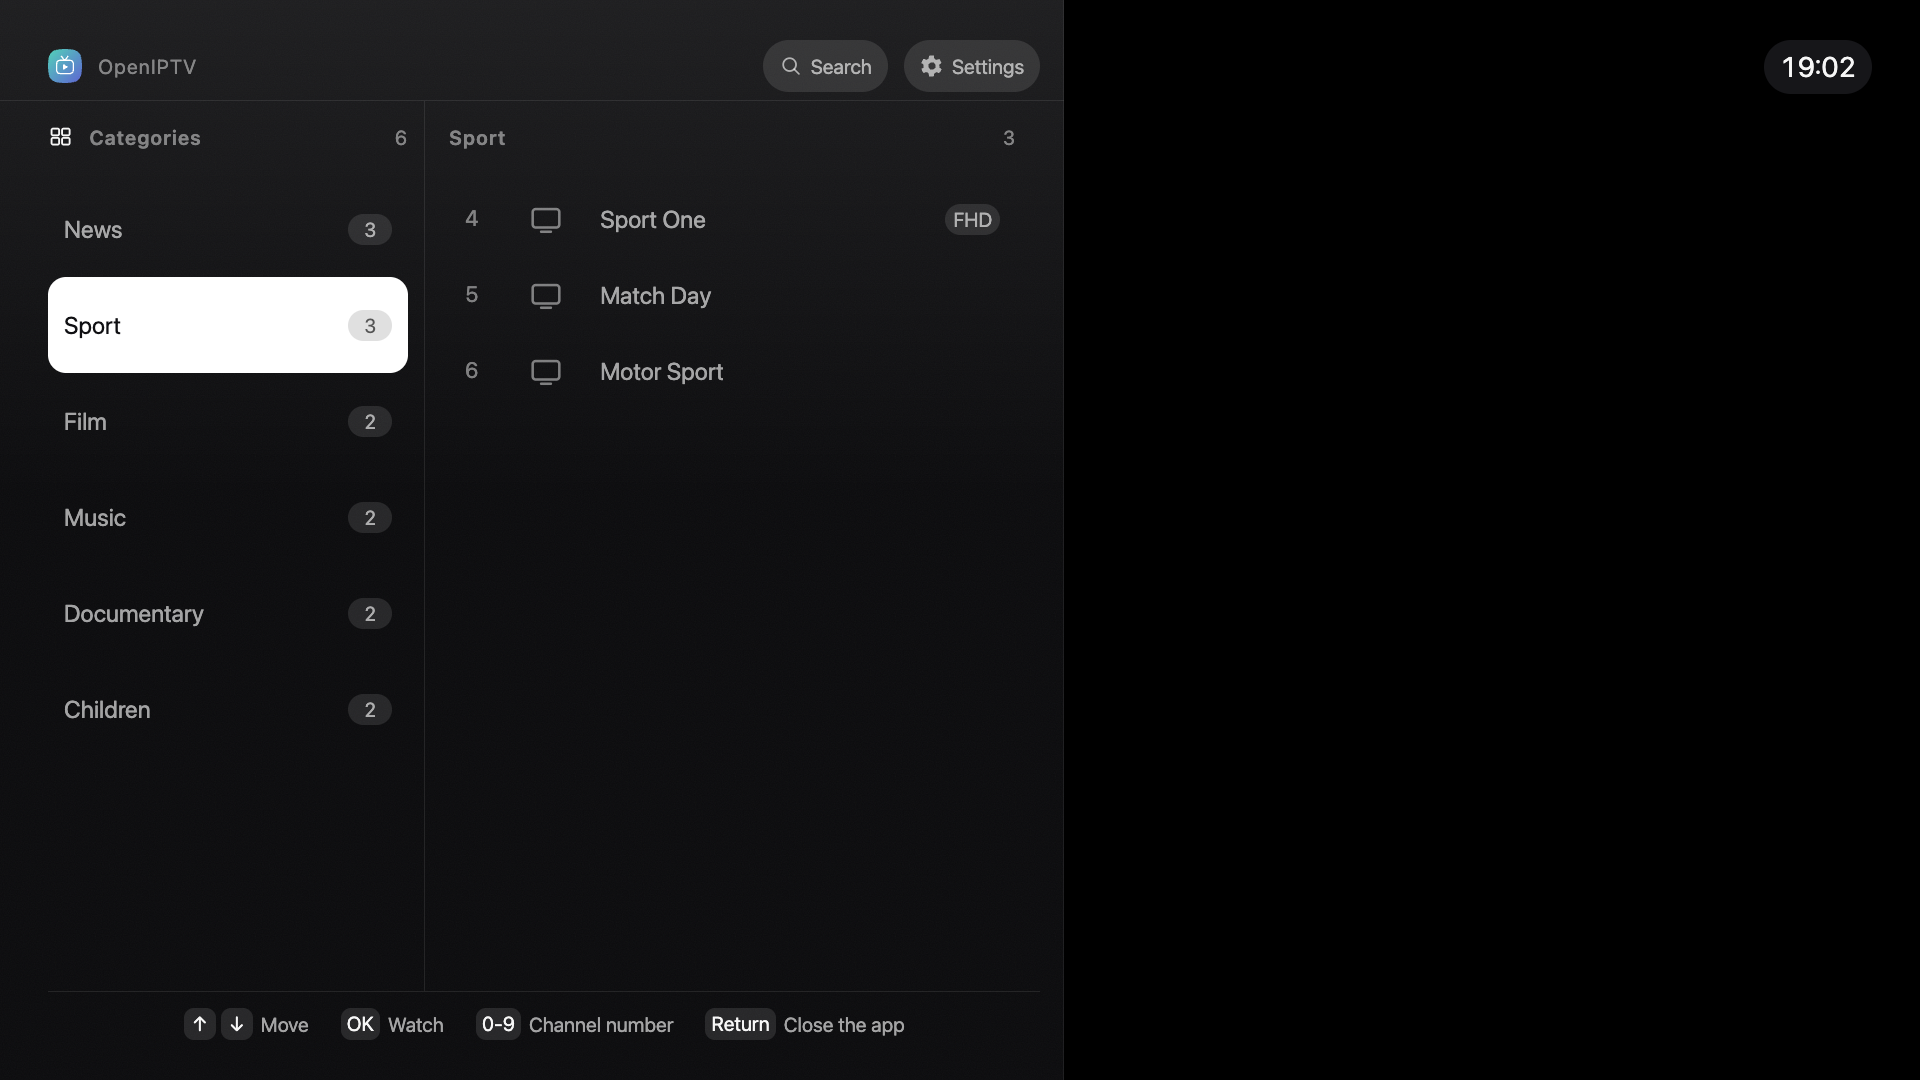
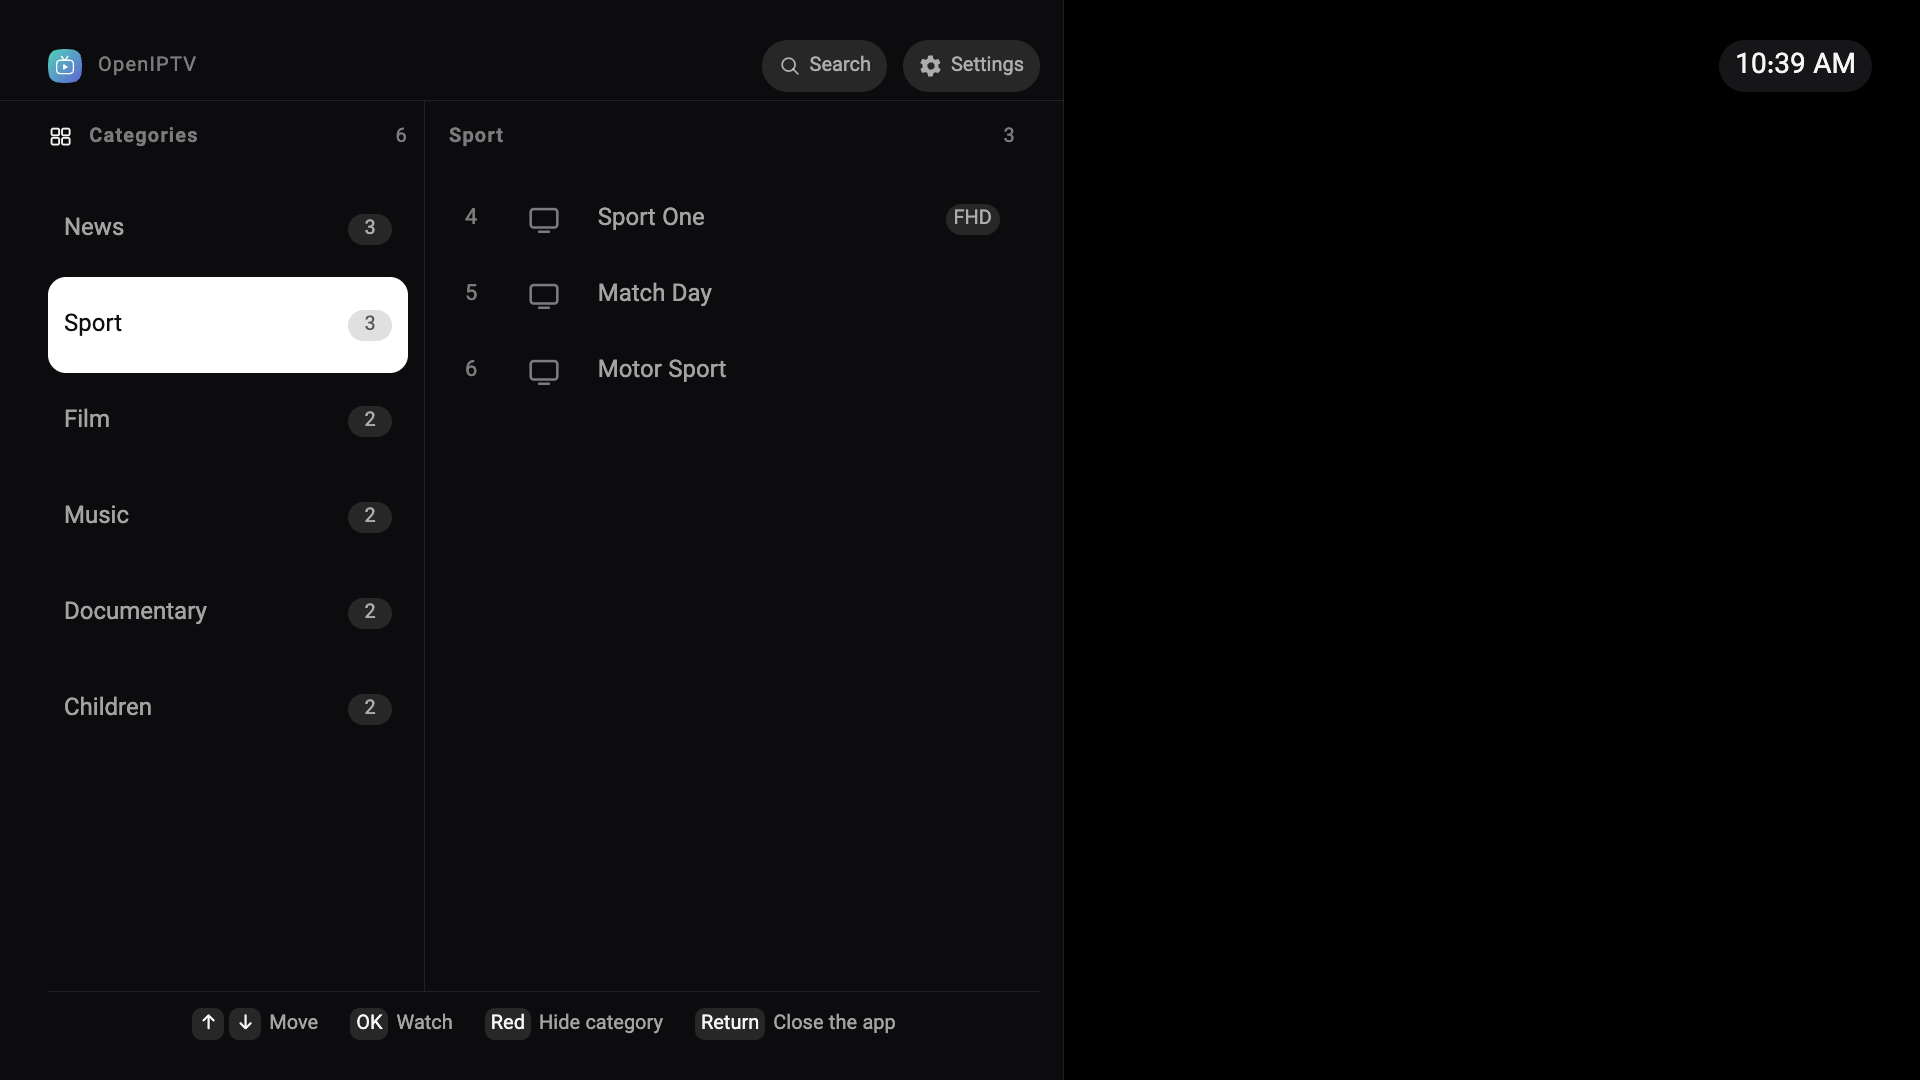
docs: refresh README and product screenshots

diff --git a/README.md b/README.md
@@ -12,12 +12,23 @@ The [demo playlist](https://shayanline.github.io/OpenIPTV/demo/nasa.m3u) contain
 
 ## A look at it
 
-|  |  |  |
-|:--|:--|:--|
-| [<img src="docs/screenshots/01-first-run.png" alt="The first run screen, asking for the address of an M3U playlist">](docs/screenshots/01-first-run.png) | [<img src="docs/screenshots/02-channels.png" alt="The channel list, with categories down the left and channels beside them">](docs/screenshots/02-channels.png) | [<img src="docs/screenshots/03-categories.png" alt="The category rail, with Sport highlighted and its channels listed">](docs/screenshots/03-categories.png) |
-| **Add** | **Watch** | **Browse** |
-| [<img src="docs/screenshots/04-search.png" alt="Search, with the query news typed and two matching channels shown">](docs/screenshots/04-search.png) | [<img src="docs/screenshots/05-favourites.png" alt="A channel starred as a favourite, with a Favourites category appearing at the top of the rail">](docs/screenshots/05-favourites.png) | [<img src="docs/screenshots/06-settings.png" alt="The Watching section of Settings, showing picture size, resume, the channel fix and the list timeout">](docs/screenshots/06-settings.png) |
-| **Search** | **Favourite** | **Adjust** |
+|  |  |
+|:--|:--|
+| [<img src="docs/screenshots/01-first-run.png" alt="The first run screen with playlist address, optional name and language controls">](docs/screenshots/01-first-run.png) | [<img src="docs/screenshots/02-channels.png" alt="The channel panel with categories, channel rows and remote key guides">](docs/screenshots/02-channels.png) |
+| **Add a playlist** | **Watch channels** |
+| [<img src="docs/screenshots/03-categories.png" alt="The category rail with Sport highlighted and its channels listed">](docs/screenshots/03-categories.png) | [<img src="docs/screenshots/04-search.png" alt="Search with the query news and matching channels">](docs/screenshots/04-search.png) |
+| **Browse categories** | **Search everything** |
+| [<img src="docs/screenshots/05-favourites.png" alt="A favourite channel and the generated Favourites category">](docs/screenshots/05-favourites.png) | [<img src="docs/screenshots/06-settings.png" alt="Playback Settings with screen fit, resume, compatibility and Playback information controls">](docs/screenshots/06-settings.png) |
+| **Keep favourites** | **Adjust playback** |
+| [<img src="docs/screenshots/07-category-management.png" alt="Category management with visibility controls for one playlist">](docs/screenshots/07-category-management.png) | [<img src="docs/screenshots/08-playback-information.png" alt="Playback information centred on the right while a channel connects">](docs/screenshots/08-playback-information.png) |
+| **Control categories** | **Inspect playback** |
+
+### Remote access on another device
+
+|  |  |
+|:--:|:--:|
+| [<img src="docs/screenshots/09-remote-access.png" alt="The Remote access interface with playlists, authorised devices and application data" width="300">](docs/screenshots/09-remote-access.png) | [<img src="docs/screenshots/10-smart-remote.png" alt="The touch optimised Smart Remote with navigation, playback, volume and channel controls" width="300">](docs/screenshots/10-smart-remote.png) |
+| **Manage the television** | **Control playback** |
 
 ## Disclaimer
 
@@ -27,13 +38,16 @@ The project is not affiliated with, endorsed by or connected to any broadcaster,
 
 ## What it does
 
-- Plays any extended M3U playlist, in any language. Channel names appear exactly as the playlist writes them.
-- Up and down change channel at the picture, in every state, including a channel that has failed.
-- Keeps favourites, searches the whole playlist, and tunes to a channel number you dial.
-- Comes back to the channel you were watching when you switch the television on.
-- Holds as many playlists as you like and switches between them.
-- Lets a phone on the same local network add playlists and manage settings without an account or cloud service.
-- Retries a broken channel three times on its own, then leaves it alone.
+- Plays extended M3U playlists without rewriting channel names, category names or languages.
+- Browses playlist categories in their original order, with controls to hide individual categories or manage them per playlist.
+- Keeps favourites, searches the whole playlist, optionally includes hidden categories in Search and Favourites, and tunes to a channel number you dial.
+- Changes channel with Up and Down from the picture in every playback state, including loading and failure states.
+- Resumes the last watched channel when requested and retries a broken channel three times before stopping.
+- Holds multiple playlists with independent category visibility, refresh controls and active playlist selection.
+- Shows live playback engine, resolution, codecs, bitrate, network estimate, buffer, frame rate, dropped frames and adaptive level information.
+- Supports 17 translated interfaces, system language detection and complete right to left layout for Arabic and Persian.
+- Lets authorised devices on the trusted local network manage playlists, settings and playback through Remote access without an account or cloud service.
+- Keeps playlist addresses, preferences, favourites and authorised device credentials on the television.
 
 No guide, no recordings, no accounts.
 
@@ -60,13 +74,15 @@ sdb devices                                # the third column is the name to ins
 tizen install -n OpenIPTV.wgt -t "<name>"
 ```
 
-On a Samsung TV, the first launch keeps the playlist form on the left and shows phone setup on the right. Scan the QR code to continue on a phone, or enter the playlist with the remote as before. Desktop browsers keep the centred manual form because they cannot accept local network connections.
+On a Samsung TV, the first launch keeps manual playlist entry beside Remote access setup. Scan the QR code to continue on another device, or add the playlist with the television remote. Desktop browsers keep the centred manual form because they cannot accept local network connections.
 
-### Set up with a phone
+### Set up with Remote access
 
-OpenIPTV serves the setup page directly from the television. Keep the app open and connect the phone to the same trusted local network, then scan the QR code or type the displayed address and pairing code. The phone can add, edit, remove and switch playlists, change ordinary settings, clear downloaded cache and manage remembered phones.
+OpenIPTV serves the Remote access interface directly from the television. Keep the app open and connect a phone or tablet to the same trusted local network, then scan the QR code or use the displayed address and pairing code. The remote interface can add, edit, remove, refresh and activate playlists, change ordinary settings, clear downloaded cache and manage authorised devices.
 
-Each phone is remembered separately until it is revoked under Settings, then Phone access. There is no OpenIPTV account, hosted service or cloud copy of the playlist addresses. If the television receives a different local address, scan the current QR code and pair the phone again.
+The Remote access interface also includes a touch optimised Smart Remote for navigation, playback, channel, volume, number, colour and transport controls. Its two control pages switch through horizontal touch gestures without expanding the sheet.
+
+Each device receives its own credential until access is removed under Settings, then Remote access. Pairing codes expire, QR secrets are single use and the credential verifier remains on the television. There is no OpenIPTV account, hosted service or cloud copy of playlist addresses. If the television receives a different local address, open Remote access in Settings and pair again.
 
 ### Build and sign it yourself
 
@@ -117,47 +133,50 @@ Playback in a browser goes through hls.js instead of the TV's own decoder, so a 
 
 Any extended M3U over http or https. OpenIPTV reads `tvg-id`, `tvg-name`, `tvg-logo`, `group-title` and `tvg-quality`, groups channels by `group-title` in the order the file introduces them, and interprets nothing else. Channels with no group go to Uncategorised.
 
-A copy is kept on the television for six hours, so switching on does not wait for a download. Settings, then Playlists, then Refresh now, ignores that and fetches again.
+Category visibility belongs to each playlist. Hidden categories can stay out of the channel panel while remaining available in Search and Favourites, or they can be excluded everywhere. Red changes the focused category, while holding Red temporarily reveals or conceals hidden categories.
+
+A copy is kept on the television for six hours, so switching on does not wait for a download. Settings, then Playlists, then Refresh ignores that copy and downloads the playlist again.
 
 ## The remote
 
 | Key | Watching | In the channel panel | Searching |
 |:--|:--|:--|:--|
 | Up, Down | Previous and next channel | Move through the list | Between the field and the results |
-| Left | Open the channel panel | Out to the rail, then out of the panel | Move the caret |
-| Right | Hide the banner | Further in, and plays the channel at the last stop | Move the caret |
-| OK | Pause and resume | Play the highlighted channel | Show the matches, then play one |
-| Return | Open the channel panel | Step back, then offer to close the app | Clear, then leave the search |
+| Left | Open the channel panel | Move toward the category rail, then leave the panel | Move the caret |
+| Right | Hide the title badge | Move toward channels and play at the final stop | Move the caret |
+| OK | Open the channel panel | Play the highlighted channel | Show matches, then play one |
+| Hold OK | Toggle Playback information | No action | No action |
+| Return | Hide what is visible, then offer to close | Step back, then return to the picture | Clear, then leave Search |
 | Ch+, Ch- | Previous and next channel | Previous and next channel | Previous and next channel |
 | 0-9 | Tune to a channel number | Tune to a channel number | Type a digit |
-| Green | Favourite | Favourite | Favourite |
-| Yellow | Settings | Settings | Settings |
+| Green | Favourite the current channel | Favourite the highlighted channel | Favourite the highlighted channel |
+| Red | No action | Hide or restore the highlighted category | No action |
+| Hold Red | No action | Reveal or conceal hidden categories temporarily | No action |
+| Yellow | Open Settings | Open Settings | Open Settings |
 
-Search and Settings sit in the panel's title bar, one press up from the first category.
+Search and Settings sit in the panel title bar, one press up from the first category. Holding OK toggles Playback information whenever the panel is closed, including while a stream is loading or a title badge is visible.
 
-Play, Pause, Stop and the track keys work wherever you are. Resuming from a pause rejoins the broadcast rather than continuing from where you stopped, because live television has moved on.
+Play, Pause, Stop and the track keys work wherever you are. Resuming from a pause rejoins the broadcast rather than continuing from where you stopped, because live television has moved on. When enabled, the clock remains visible everywhere except inside Settings.
 
 ## Settings
 
 The yellow key, from anywhere.
 
-- **Appearance**: language, text size, channel numbers, logos, clock and sorting.
-- **Playback**: picture size and compatibility mode.
-- **General**: resuming, cache clearing and complete application reset.
-- **Playlists**: add, edit, remove, switch and refresh.
-- **Phone access**: pair, rename and revoke phones that manage this television.
-- **Diagnostics**: what this television is, and every key its remote sends.
-- **About**: version, and where to find the source.
+- **Appearance**: language, text size, channel numbers, logos, clock and alphabetical sorting.
+- **Playback**: screen fit, resume last channel, compatibility mode and persistent Playback information.
+- **Playlists**: add, edit, remove, activate and refresh playlists, with category search and visibility controls for each playlist.
+- **Remote access**: pair, rename and remove authorised devices that manage the television.
+- **About**: version, privacy and source information, with Diagnostics under Support and cache clearing or complete reset under Application data.
 
 ## When something does not work
 
-- **The phone cannot open the setup page.** Keep OpenIPTV open and confirm that the phone and television use the same local network. Guest networks often prevent devices from reaching each other. Manual playlist entry on the left remains available.
-- **A remembered phone stopped connecting.** The television may have received a different local address. Open Settings, then Phone access and scan the current QR code again.
-- **A channel will not play.** It retries after 4, 8 and 15 seconds and then stops. Press down for the next one, which works even while the fault is on screen.
-- **The install fails with a certificate error, 118 or -12.** The distributor certificate is not issued for this television. See the signing note above.
-- **A coloured key does nothing.** Settings, then Diagnostics, lists every key press the app receives. A button missing from that list never reached the app, so the set is keeping it.
-- **A channel shows a picture for a moment and then stops.** Turn on Compatibility mode in Watching. Some channels publish a playlist this player reads incorrectly, and the app can serve it a corrected copy. Leave it off otherwise, because while it is on the app fetches those playlists itself and uses a little more of your connection.
-- **Logos are slow to appear.** Turn Channel logos off in Appearance.
+- **A device cannot open Remote access.** Keep OpenIPTV open and confirm that the device and television use the same trusted local network. Guest networks often prevent devices from reaching each other. Manual playlist entry remains available on the television.
+- **An authorised device stopped connecting.** The television may have received a different local address. Open Settings, then Remote access and pair the device again.
+- **A channel will not play.** It retries after 4, 8 and 15 seconds and then stops. Press Down for the next channel, which works while the fault remains visible.
+- **The install fails with certificate error 118 or -12.** The distributor certificate was not issued for this television. Follow the signing guidance above.
+- **A remote key does nothing.** Open Settings, About, Support, Diagnostics, then Remote buttons. A key missing from that screen never reached the app because the television kept it.
+- **A channel shows one frame and stops.** Turn on Compatibility mode under Settings, then Playback. Leave it off for healthy streams because repair requires the app to fetch the stream playlist itself.
+- **Logos are slow to appear.** Turn Show channel logos off under Settings, then Appearance.
 - **A stream plays on the TV but not in a browser.** The host is refusing cross origin requests. There is nothing to fix in the app.
 
 ## Contributing
